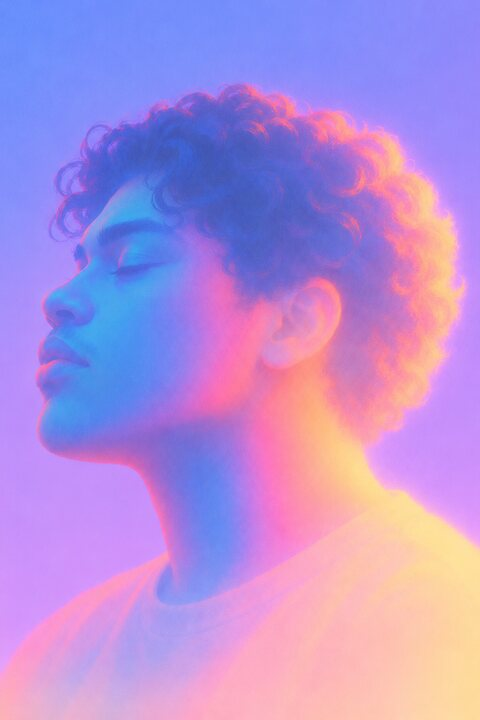
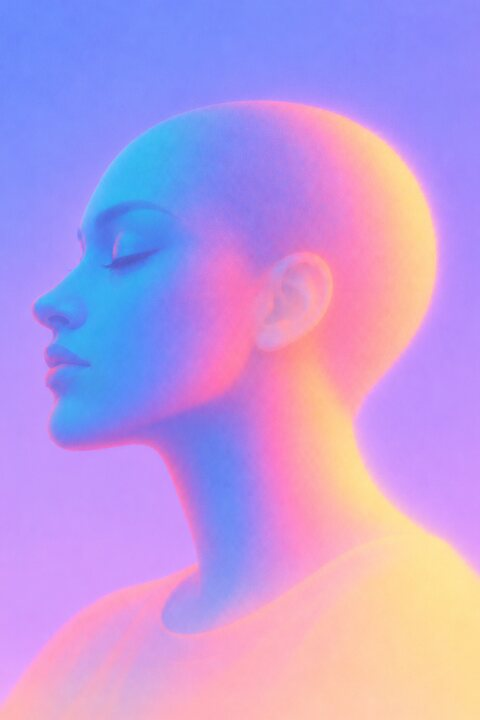
Images: a twelfth portrait, for Tama on the org chart
Portrait 09 looked too much like 02, so Tama Buccanon's card gets the new
one. The original joins the others in Images/Portraits.

diff --git a/Images/README.md b/Images/README.md
@@ -10,7 +10,7 @@ Images made for this repository, kept as they came out so they can be reused: in
 - B: backlit side profile, lilac-to-peach sky;
 - C: glowing side profile, periwinkle-to-violet background.
 
-The generator didn't always follow the look, and `portrait-03-C.png` faces right where the others face left.
+The generator didn't always follow the look, and `portrait-03-C.png` faces right where the others face left. `portrait-12.png` was made later, to replace `portrait-09-C.png` on the organisational chart, as 09 looked too much like 02.
 
 They were made with ChatGPT image generation and are offered under [CC0 1.0](https://creativecommons.org/publicdomain/zero/1.0/). With thanks to [Novoda](https://www.novoda.com) for the image generation, and to [Jake Lee (@jakelee_art)](https://www.instagram.com/jakelee_art/), whose dreamy gradient portraits inspired the style.
 
